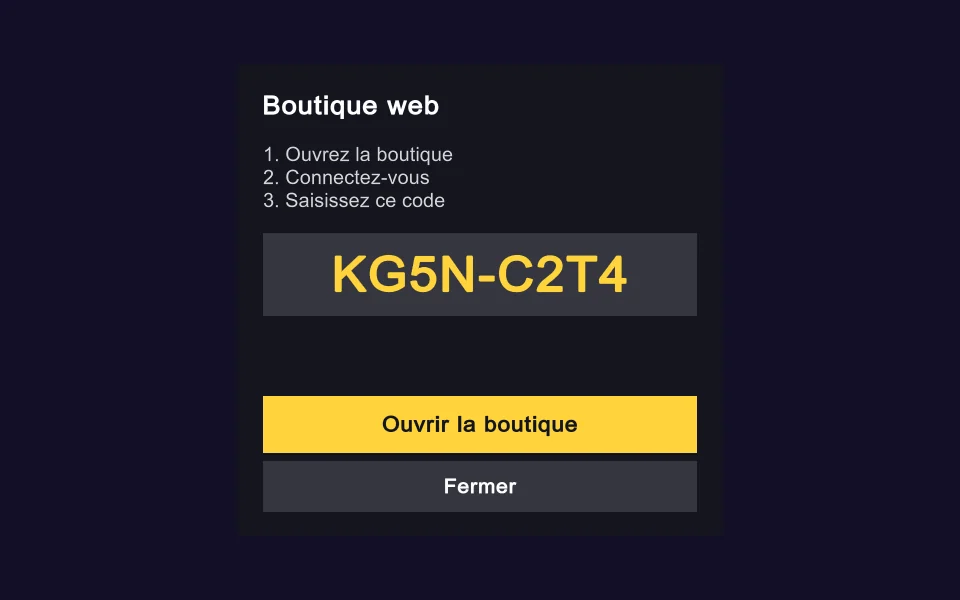
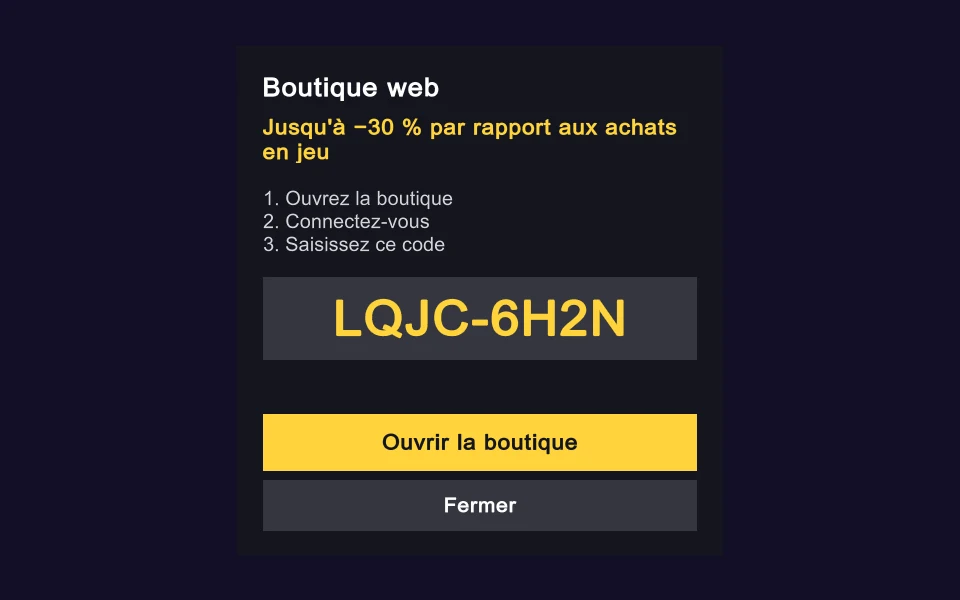
Intégration : rappel du −30 % (section « Pourquoi le faire » du tutoriel, réduction réelle de la boutique affichée dans l'écran du jeu Unity et Godot via web_discount_percent)

Changed region(s): [[0.25, 0.12, 0.75, 0.6], [0.25, 0.66, 0.75, 0.9]]

diff --git a/apps/web/src/components/docs/IntegrationVisuals.tsx b/apps/web/src/components/docs/IntegrationVisuals.tsx
@@ -1,3 +1,4 @@
+import { DEFAULT_PLATFORM_FEE_BPS, feeCents, formatMoney, STORE_FEE_BPS } from '@devappstore/core';
 import type { ReactNode } from 'react';
 
 /*
@@ -9,6 +10,46 @@ import type { ReactNode } from 'react';
 function Art({ src, className = '' }: { src: string; className?: string }) {
   // eslint-disable-next-line @next/next/no-img-element
   return <img src={src} alt="" loading="lazy" decoding="async" className={`object-contain ${className}`} />;
+}
+
+/** Réduction web conseillée par rapport au prix en jeu (celle des boutiques du catalogue). */
+export const WEB_DISCOUNT_PCT = 30;
+
+/**
+ * Le même article en jeu et sur le web : ce que paie le joueur, ce que garde le studio. Calculé depuis les commissions
+ * de @devappstore/core (store 30 %, Dev AppStore 5 %), pour un article à 9,99 € en jeu.
+ */
+export function PriceCompare() {
+  const inGame = 999;
+  const web = Math.round((inGame * (100 - WEB_DISCOUNT_PCT)) / 100);
+  const cols = [
+    { where: 'Dans le jeu', price: inGame, keep: inGame - feeCents(inGame, STORE_FEE_BPS), fee: `Le store garde ${STORE_FEE_BPS / 100} %`, web: false },
+    { where: 'Sur le web', price: web, keep: web - feeCents(web, DEFAULT_PLATFORM_FEE_BPS), fee: `Dev AppStore garde ${DEFAULT_PLATFORM_FEE_BPS / 100} %`, web: true },
+  ];
+  return (
+    <figure className="my-6">
+      <div className="grid gap-3 sm:grid-cols-2">
+        {cols.map((c) => (
+          <div key={c.where} className={`relative flex items-center gap-4 rounded-[16px] p-4 ${c.web ? 'bg-ink text-white' : 'border border-line bg-surface text-ink'}`}>
+            <Art src="/art/items/gems-2.webp" className="size-20 flex-none" />
+            <div className="min-w-0">
+              <p className={`text-[11px] font-black tracking-wide uppercase ${c.web ? 'text-brand' : 'text-ink-3'}`}>{c.where}</p>
+              <p className="text-2xl leading-tight font-black">
+                <span className={c.web ? '' : 'text-ink-2 line-through decoration-2'}>{formatMoney(c.price)}</span>
+              </p>
+              <p className={`mt-1 text-sm leading-5 ${c.web ? 'text-white/70' : 'text-ink-2'}`}>
+                {c.fee}. Vous touchez <strong className={c.web ? 'text-white' : 'text-ink'}>{formatMoney(c.keep)}</strong>.
+              </p>
+            </div>
+            {c.web && <span className="absolute -top-2.5 right-3 rounded-full bg-brand px-3 py-1 text-sm font-black text-ink">−{WEB_DISCOUNT_PCT} %</span>}
+          </div>
+        ))}
+      </div>
+      <figcaption className="mt-2 text-center text-xs text-ink-3">
+        Le même sac de gemmes. Le joueur paie {WEB_DISCOUNT_PCT} % de moins, vous touchez presque autant par vente (hors taxes).
+      </figcaption>
+    </figure>
+  );
 }
 
 /** Les trois gestes de l'intégration, en images. */
@@ -35,7 +76,7 @@ export function QuickSteps() {
 /** Parcours d'un achat, du site au jeu. */
 export function FlowDiagram() {
   const nodes: { art: string; where: string; title: string; text: string }[] = [
-    { art: '/art/items/gems-2.webp', where: 'Sur le site', title: 'Le joueur achète', text: 'Il paie sur la boutique web de votre jeu.' },
+    { art: '/art/items/gems-2.webp', where: 'Sur le site', title: 'Le joueur achète', text: `Sur la boutique web de votre jeu, ${WEB_DISCOUNT_PCT} % moins cher qu’en jeu.` },
     { art: '/art/items/chest-rare.webp', where: 'Chez Dev AppStore', title: 'L’achat est gardé', text: 'Il attend en sécurité, même si le jeu est fermé.' },
     { art: '/art/site/step-link.webp', where: 'Dans votre jeu', title: 'Le jeu vient le chercher', text: 'Au lancement, au retour dans le jeu, puis toutes les 30 secondes.' },
     { art: '/art/site/step-delivered.webp', where: 'Dans votre jeu', title: 'L’objet est donné', text: 'Votre méthode le crédite, puis le jeu confirme la réception.' },
@@ -131,7 +172,7 @@ export function InspectorMock() {
 export function GameScreens() {
   const shots = [
     { src: '/docs/unity-bouton.webp', alt: 'Dans le jeu, un bouton jaune « Boutique web » en haut à droite de l’écran.', label: 'Le bouton ajouté à votre jeu' },
-    { src: '/docs/unity-code-de-liaison.webp', alt: 'Écran « Boutique web » : trois étapes, le code KG5N-C2T4 en grand, puis les boutons « Ouvrir la boutique » et « Fermer ».', label: 'L’écran du code de liaison' },
+    { src: '/docs/unity-code-de-liaison.webp', alt: 'Écran « Boutique web » : le rappel de la réduction, trois étapes, le code LQJC-6H2N en grand, puis les boutons « Ouvrir la boutique » et « Fermer ».', label: 'L’écran du code de liaison' },
   ];
   return (
     <figure className="my-6">

diff --git a/apps/web/src/app/(docs)/docs/integration/page.tsx b/apps/web/src/app/(docs)/docs/integration/page.tsx
@@ -1,5 +1,5 @@
 import { CodeBlock } from '@/components/docs/CodeBlock';
-import { DownloadCard, FlowDiagram, GameScreens, InspectorMock, QuickSteps } from '@/components/docs/IntegrationVisuals';
+import { DownloadCard, FlowDiagram, GameScreens, InspectorMock, PriceCompare, QuickSteps, WEB_DISCOUNT_PCT } from '@/components/docs/IntegrationVisuals';
 import { A, C, Callout, DocPage, H2, H3, P, Step, Steps, UL } from '@/components/docs/prose';
 import { DOCS_FACTS } from '@/lib/docs/facts';
 import { SDK_PACKAGES } from '@/lib/docs/sdk-packages';
@@ -55,6 +55,24 @@ export default function IntegrationPage() {
       </P>
       <QuickSteps />
 
+      <H2 id="pourquoi">Pourquoi le faire : −{WEB_DISCOUNT_PCT} % pour vos joueurs</H2>
+      <P>
+        Le but n’est pas seulement de vendre sur le web : c’est d’y vendre <strong>{WEB_DISCOUNT_PCT} % moins cher qu’en jeu</strong>.
+        Vous touchez les joueurs qui aiment votre jeu mais trouvent vos achats trop chers, sans rien perdre ou presque sur chaque
+        vente.
+      </P>
+      <PriceCompare />
+      <UL>
+        <li>
+          <strong>Vos joueurs achèteront avec une forte réduction.</strong> Fixez vos prix web en conséquence : les quelques minutes
+          d’intégration se remboursent par les achats de joueurs qui n’auraient pas payé le prix en jeu.
+        </li>
+        <li>
+          <strong>Indiquez le prix en jeu de chaque article</strong> (champ « ancien prix » de l’éditeur de boutique). La boutique
+          l’affiche barré, avec la réduction, et le jeu la rappelle au joueur.
+        </li>
+      </UL>
+
       <H2 id="comment-ca-marche">Le parcours d’un achat</H2>
       <FlowDiagram />
       <P>
@@ -64,7 +82,8 @@ export default function IntegrationPage() {
       </P>
       <P>
         Pour savoir à qui livrer, le joueur relie une fois son jeu à son compte du site : le jeu affiche un code, il le saisit sur la
-        boutique. C’est fourni aussi, vous n’avez pas d’écran à dessiner.
+        boutique. C’est fourni aussi, vous n’avez pas d’écran à dessiner. Cet écran lui rappelle la réduction de votre boutique : c’est ce
+        qui lui donne envie de faire le détour.
       </P>
 
       <H2 id="unity">Unity : le prefab</H2>
@@ -161,9 +180,16 @@ export default function IntegrationPage() {
       <H2 id="joueur">Ce que voit le joueur</H2>
       <GameScreens />
       <UL>
-        <li>Dans le jeu, il appuie sur « Boutique web » : un code s’affiche, valable {DOCS_FACTS.linkCodeTtlMin} minutes.</li>
+        <li>
+          Dans le jeu, il appuie sur « Boutique web » : l’écran annonce la réduction réelle de votre boutique (« Jusqu’à −
+          {WEB_DISCOUNT_PCT} % par rapport aux achats en jeu ») et affiche un code, valable {DOCS_FACTS.linkCodeTtlMin} minutes.
+        </li>
         <li>Sur la boutique de votre jeu, il se connecte, saisit ce code et confirme que c’est bien son compte de jeu.</li>
         <li>C’est fait une fois par appareil. Ensuite, chaque achat arrive dans le jeu, avec un petit message « Achat reçu ! ».</li>
+        <li>
+          Rappelez-le vous aussi, là où le joueur hésite : à côté de vos prix en jeu, dans vos actualités, sur vos réseaux. « Le même
+          objet, {WEB_DISCOUNT_PCT} % moins cher sur le web » est votre meilleur argument.
+        </li>
       </UL>
 
       <H2 id="tester">Tester en deux minutes</H2>
@@ -202,6 +228,12 @@ export default function IntegrationPage() {
       <P>
         Vous recevez l’identifiant produit et la quantité sur <C>On Item Revoked</C> (Unity) ou <C>item_revoked</C> (Godot) : retirez
         l’objet.
+      </P>
+      <H3 id="q-prix">Quel prix mettre sur le web ?</H3>
+      <P>
+        Nous conseillons {WEB_DISCOUNT_PCT} % de moins qu’en jeu, et de renseigner le prix en jeu comme ancien prix. Le pourcentage
+        affiché au joueur, sur la boutique comme dans le jeu, est calculé à partir de vos vrais prix : rien n’est annoncé si vous
+        n’accordez aucune réduction.
       </P>
       <H3 id="q-identifiants">Quels identifiants produit vais-je recevoir ?</H3>
       <P>

diff --git a/apps/web/src/app/api/v1/link-codes/route.ts b/apps/web/src/app/api/v1/link-codes/route.ts
@@ -2,13 +2,14 @@ import { guardApi } from '@/server/api-rate-limit';
 import { corsError, corsPreflight, withCors } from '@/server/delivery-http';
 import { createLinkCode, linkCodeRequestSchema } from '@/server/linking';
 import { siteUrl } from '@/lib/seo';
+import { getGameWebDiscountPct } from '@/server/catalog';
 
 export const runtime = 'nodejs';
 export const dynamic = 'force-dynamic';
 
 /**
  * POST /api/v1/link-codes — appelé par le serveur du studio (clé secrète) ou par le SDK client (clé publique).
- * Corps : { player_id, player_name? } → 200 { code, expires_at, link_request_id, link_url, store_url }.
+ * Corps : { player_id, player_name? } → 200 { code, expires_at, link_request_id, link_url, store_url, web_discount_percent }.
  * Le jeu affiche le code ; le joueur le saisit sur /games/[slug]/link (valable 10 min, usage unique).
  * Avec la clé publique, le SDK interroge ensuite GET /api/v1/link-requests/{link_request_id} pour obtenir son jeton joueur.
  * Sécurité : avec la clé publique, n'importe quel client peut demander un code pour n'importe quel player_id ; le jeton
@@ -39,6 +40,7 @@ export async function POST(req: Request) {
     }
     return corsError(403, r.error, r.message);
   }
+  const webDiscountPct = await getGameWebDiscountPct(auth.game.id);
   const store = `${siteUrl()}/games/${encodeURIComponent(auth.game.slug)}`;
   return withCors(
     Response.json(
@@ -49,6 +51,8 @@ export async function POST(req: Request) {
         // Pages à ouvrir dans le navigateur du joueur depuis le jeu (bouton « Ouvrir la boutique » des SDK).
         link_url: `${store}/link`,
         store_url: store,
+        // Plus forte réduction de la boutique web par rapport aux prix en jeu (0 si aucune) : affichée par les SDK.
+        web_discount_percent: webDiscountPct,
       },
       { headers: { 'Cache-Control': 'no-store' } },
     ),

diff --git a/apps/web/src/lib/openapi/spec.ts b/apps/web/src/lib/openapi/spec.ts
@@ -392,7 +392,7 @@ export function buildOpenApiSpec({ serverUrl = 'https://devappstore.com' }: Open
         },
         LinkCode: {
           type: 'object',
-          required: ['code', 'expires_at', 'link_request_id', 'link_url', 'store_url'],
+          required: ['code', 'expires_at', 'link_request_id', 'link_url', 'store_url', 'web_discount_percent'],
           additionalProperties: false,
           properties: {
             code: { type: 'string', pattern: '^[A-HJ-NP-Z2-9]{4}-[A-HJ-NP-Z2-9]{4}$', example: 'K7QF-M2XA', description: 'Code à afficher dans le jeu.' },
@@ -400,6 +400,7 @@ export function buildOpenApiSpec({ serverUrl = 'https://devappstore.com' }: Open
             link_request_id: { type: 'string', example: 'lnc_3f9Q…', description: 'À interroger sur `GET /api/v1/link-requests/{id}`.' },
             link_url: { type: 'string', format: 'uri', example: 'https://devappstore.com/games/crystal-clash/link', description: 'Page où le joueur saisit le code, à ouvrir dans son navigateur.' },
             store_url: { type: 'string', format: 'uri', example: 'https://devappstore.com/games/crystal-clash', description: 'Boutique web du jeu.' },
+            web_discount_percent: { type: 'integer', minimum: 0, maximum: 99, example: 30, description: 'Plus forte réduction de la boutique web par rapport aux prix en jeu (prix barrés des articles actifs), en %. 0 si aucune. À afficher au joueur à côté du bouton de la boutique.' },
           },
         },
         LinkRequestStatus: {

diff --git a/apps/web/src/lib/docs/nav.ts b/apps/web/src/lib/docs/nav.ts
@@ -57,11 +57,12 @@ export const DOC_PAGES: DocPage[] = [
   {
     slug: 'integration',
     title: 'Intégration glisser-déposer',
-    description: 'Un prefab à poser dans Unity, un plugin dans Godot : les achats du site arrivent dans le jeu sans écrire de code réseau.',
+    description: 'Un prefab à poser dans Unity, un plugin dans Godot : les achats du site, 30 % moins chers qu’en jeu pour vos joueurs, arrivent dans le jeu sans écrire de code réseau.',
     group: 'Prise en main',
     keywords: 'tutoriel prefab unitypackage drag drop glisser déposer plugin addon unity godot sans code',
     sections: [
       { id: 'en-bref', title: 'En bref' },
+      { id: 'pourquoi', title: 'Pourquoi le faire : −30 % pour vos joueurs', keywords: 'réduction prix web moins cher audience revenu commission' },
       { id: 'comment-ca-marche', title: 'Le parcours d’un achat', keywords: 'synchronisation sauvegarde livraison automatique' },
       { id: 'unity', title: 'Unity : le prefab', keywords: 'unitypackage inspecteur on item granted' },
       { id: 'godot', title: 'Godot : le plugin', keywords: 'addon autoload signal item_granted' },

diff --git a/apps/web/src/server/catalog.ts b/apps/web/src/server/catalog.ts
@@ -100,6 +100,19 @@ export function maxDiscountPct(list: PromoFields[], now: Date | number = Date.no
   return list.reduce((m, i) => Math.max(m, activeDiscountPct(i, now)), 0);
 }
 
+/**
+ * Plus forte réduction d'un jeu par rapport aux prix en jeu (prix barré de ses articles actifs), en % ; 0 si aucune.
+ * Renvoyée aux SDK avec le code de liaison.
+ */
+export async function getGameWebDiscountPct(gameId: string, database: DB = db): Promise<number> {
+  const rows = await database
+    .select({ priceCents: items.priceCents, oldPriceCents: items.oldPriceCents, promoStartsAt: items.promoStartsAt, promoEndsAt: items.promoEndsAt })
+    .from(items)
+    .where(and(eq(items.gameId, gameId), eq(items.active, true)));
+  // Seuls les prix barrés affichés maintenant comptent (hors fenêtre de promo, rien n'est annoncé au joueur).
+  return maxDiscountPct(rows);
+}
+
 /** Échappe les jokers LIKE (% _ \) d'une saisie utilisateur. */
 export function escapeLike(s: string) {
   return s.replace(/[\\%_]/g, (c) => `\\${c}`);

diff --git a/apps/web/src/app/api/v1/openapi-contract.test.ts b/apps/web/src/app/api/v1/openapi-contract.test.ts
@@ -101,6 +101,7 @@ describe('POST /api/v1/link-codes', () => {
     // Adresses à ouvrir dans le navigateur du joueur depuis le jeu (bouton « Ouvrir la boutique » des SDK).
     expect(body.store_url).toMatch(/^https?:\/\/[^/]+\/games\/[a-z0-9_-]+$/);
     expect(body.link_url).toBe(`${body.store_url}/link`);
+    expect(Number.isInteger(body.web_discount_percent)).toBe(true);
     await contract(P, 'post', await linkCodesRoute.POST(req(P, { method: 'POST', key: PUB, body: { player_id: 'p_pub', player_name: null } })), 200);
   });
   it('400 invalid_json / invalid_request, 401, 403 method_disabled', async () => {

diff --git a/packages/sdk-js/src/types.ts b/packages/sdk-js/src/types.ts
@@ -40,6 +40,8 @@ export interface LinkCode {
   link_url?: string;
   /** Boutique web du jeu. */
   store_url?: string;
+  /** Plus forte réduction de la boutique web par rapport aux prix en jeu, en % (0 si aucune). */
+  web_discount_percent?: number;
 }
 
 /** Réponse de `GET /api/v1/link-requests/{id}`. */

diff --git a/sdks/unity/Runtime/DevAppStoreDropIn.cs b/sdks/unity/Runtime/DevAppStoreDropIn.cs
@@ -45,6 +45,8 @@ namespace DevAppStore
         {
             public string button = "Boutique web";
             public string title = "Boutique web";
+            [Tooltip("Rappel de la réduction du web par rapport aux achats en jeu. {0} = le pourcentage réel de votre boutique, envoyé par Dev AppStore. Masqué si votre boutique n'a aucun prix barré.")]
+            public string discount = "Jusqu'à −{0} % par rapport aux achats en jeu";
             public string steps = "1. Ouvrez la boutique\n2. Connectez-vous\n3. Saisissez ce code";
             public string loading = "Un instant…";
             public string linked = "Compte lié. Vos achats faits sur la boutique arrivent tout seuls dans le jeu.";
@@ -60,6 +62,7 @@ namespace DevAppStore
 
         private const string DeviceIdKey = "devappstore.device_player_id";
         private const string StoreUrlKey = "devappstore.store_url";
+        private const string DiscountKey = "devappstore.web_discount_percent";
 
         [Header("Joueur")]
         [Tooltip("This Device : le SDK crée un identifiant et le mémorise sur l'appareil (jeu sans comptes).\nSet By Game : votre jeu appelle SetPlayer(id) quand le joueur est connecté.")]
@@ -106,6 +109,7 @@ namespace DevAppStore
         private string _error;
         private DateTime _expiresUtc;
         private string _storeUrl;
+        private int _discountPct;
         private string _toast;
         private float _toastUntil;
         private int _codeListeners;
@@ -116,6 +120,7 @@ namespace DevAppStore
         {
             Client = GetComponent<DevAppStoreClient>();
             _storeUrl = PlayerPrefs.GetString(StoreUrlKey, "");
+            _discountPct = PlayerPrefs.GetInt(DiscountKey, 0);
         }
 
         private void OnEnable()
@@ -208,6 +213,7 @@ namespace DevAppStore
                         _expiresUtc = DateTime.UtcNow.AddMinutes(10);
                     }
                     RememberStoreUrl(link.store_url, link.link_url);
+                    RememberDiscount(link.web_discount_percent);
                     onLinkCode.Invoke(link.code);
                 },
                 err =>
@@ -241,6 +247,23 @@ namespace DevAppStore
             _storeUrl = storeUrl;
             PlayerPrefs.SetString(StoreUrlKey, storeUrl);
             PlayerPrefs.Save();
+        }
+
+/// <summary>Réduction de la boutique web par rapport aux achats en jeu, en % (0 tant qu'elle n'est pas connue).</summary>
+        public int WebDiscountPercent => _discountPct;
+
+        private void RememberDiscount(int pct)
+        {
+            if (pct == _discountPct) return;
+            _discountPct = pct;
+            PlayerPrefs.SetInt(DiscountKey, pct);
+            PlayerPrefs.Save();
+        }
+
+        private string DiscountText()
+        {
+            if (_discountPct <= 0 || string.IsNullOrEmpty(labels.discount)) return null;
+            return labels.discount.Replace("{0}", _discountPct.ToString(CultureInfo.InvariantCulture));
         }
 
         private static string DevicePlayerId()
@@ -303,7 +326,7 @@ namespace DevAppStore
 
         // ------------------------------------------------------------------ Interface intégrée (IMGUI, sans dépendance)
 
-        private GUIStyle _panelStyle, _titleStyle, _textStyle, _codeStyle, _primaryStyle, _secondaryStyle, _toastStyle;
+        private GUIStyle _panelStyle, _titleStyle, _textStyle, _codeStyle, _dealStyle, _primaryStyle, _secondaryStyle, _toastStyle;
         private Texture2D _texPanel, _texBrand, _texBrandDown, _texGhost, _texGhostDown, _texDim;
 
         private static Texture2D Fill(Color c)
@@ -333,6 +356,8 @@ namespace DevAppStore
             _titleStyle.normal.textColor = Color.white;
             _textStyle = new GUIStyle(GUI.skin.label) { fontSize = 14, wordWrap = true, richText = false };
             _textStyle.normal.textColor = new Color(1f, 1f, 1f, 0.82f);
+            _dealStyle = new GUIStyle(GUI.skin.label) { fontSize = 15, fontStyle = FontStyle.Bold, wordWrap = true };
+            _dealStyle.normal.textColor = brand;
             _codeStyle = new GUIStyle(GUI.skin.label) { fontSize = 34, fontStyle = FontStyle.Bold, alignment = TextAnchor.MiddleCenter };
             _codeStyle.normal.textColor = brand;
             _codeStyle.normal.background = _texGhost;
@@ -396,9 +421,11 @@ namespace DevAppStore
             {
                 GUI.DrawTexture(new Rect(0, 0, w, h), _texDim);
                 float pw = Mathf.Min(340f, w - left - right - 2 * margin);
-                float ph = Mathf.Min(IsLinked ? 250f : 330f, h - top - bottom - 2 * margin);
+                float ph = Mathf.Min((IsLinked ? 250f : 330f) + (_discountPct > 0 ? 26f : 0f), h - top - bottom - 2 * margin);
                 GUILayout.BeginArea(new Rect((w - pw) / 2f, (h - ph) / 2f, pw, ph), _panelStyle);
                 GUILayout.Label(labels.title, _titleStyle);
+                string deal = DiscountText();
+                if (deal != null) GUILayout.Label(deal, _dealStyle);
                 GUILayout.Space(6);
                 if (IsLinked)
                 {

diff --git a/sdks/unity/Runtime/DevAppStoreModels.cs b/sdks/unity/Runtime/DevAppStoreModels.cs
@@ -44,6 +44,8 @@ namespace DevAppStore
         public string link_url;
         /// <summary>Boutique web du jeu.</summary>
         public string store_url;
+        /// <summary>Plus forte réduction de la boutique web par rapport aux prix en jeu, en % (0 si aucune).</summary>
+        public int web_discount_percent;
     }
 
     /// <summary>Réponse de GET /api/v1/link-requests/{id}.</summary>

diff --git a/HANDOFF.md b/HANDOFF.md
@@ -67,6 +67,13 @@ En cas de base corrompue (« RuntimeError: Aborted() » PGlite, processus coupé
   (https://livazz.github.io/dev.appstore/), régénéré à la main.
 - Migration Drizzle initiale : `packages/db/drizzle/0000_initial.sql`. Dépendances à jour (audit sans haute/critique).
 
+- **Rappel du −30 %** (argument commercial à répéter aux studios et aux joueurs) : `POST /api/v1/link-codes` renvoie
+  `web_discount_percent` (plus forte réduction affichée de la boutique, `getGameWebDiscountPct`, 0 si aucune) ; le prefab
+  Unity et le bouton Godot l'affichent dans l'écran du code (« Jusqu'à −N % par rapport aux achats en jeu », libellé
+  modifiable, jamais un chiffre en dur). Le tutoriel a une section « Pourquoi le faire » avec le comparatif en jeu / web
+  (`PriceCompare`, `WEB_DISCOUNT_PCT = 30`). À trancher : l'import de catalogue propose encore −20 % par défaut
+  (`DEFAULT_WEB_DISCOUNT_BPS = 2000` dans `packages/importers/src/pricing.ts`).
+
 ## Ce qui reste à faire
 
 1. **Vague 6 : faite et fusionnée (10 novembre 2026)** — temps réel multi-instance (LISTEN/NOTIFY, `RATE_LIMIT_STORE=postgres`,

diff --git a/sdks/unity/README.md b/sdks/unity/README.md
@@ -126,7 +126,7 @@ public class Shop : MonoBehaviour
 
 ## Nouveautés de la 0.3
 
-Prefab glisser-déposer (`DevAppStoreDropIn`), `link_url` et `store_url` dans `LinkCode`, `PurchaseHandlerCount`. Aucun
+Prefab glisser-déposer (`DevAppStoreDropIn`), `link_url`, `store_url` et `web_discount_percent` dans `LinkCode` (l'écran fourni rappelle au joueur la réduction réelle de la boutique web), `PurchaseHandlerCount`. Aucun
 changement incompatible : le code écrit pour la 0.2 fonctionne tel quel.
 
 ## Migration depuis 0.1
